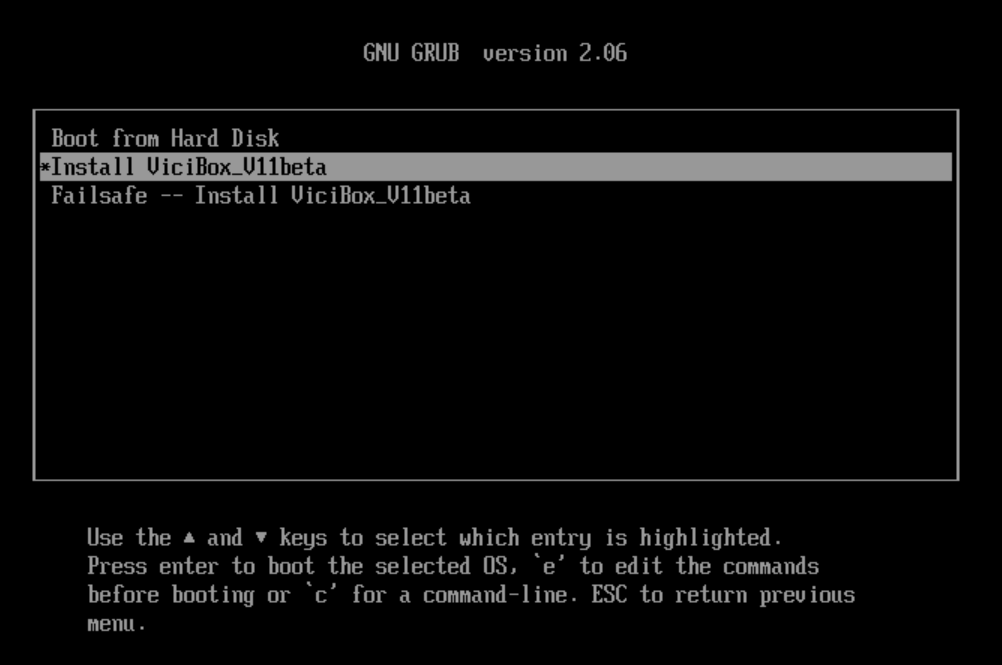
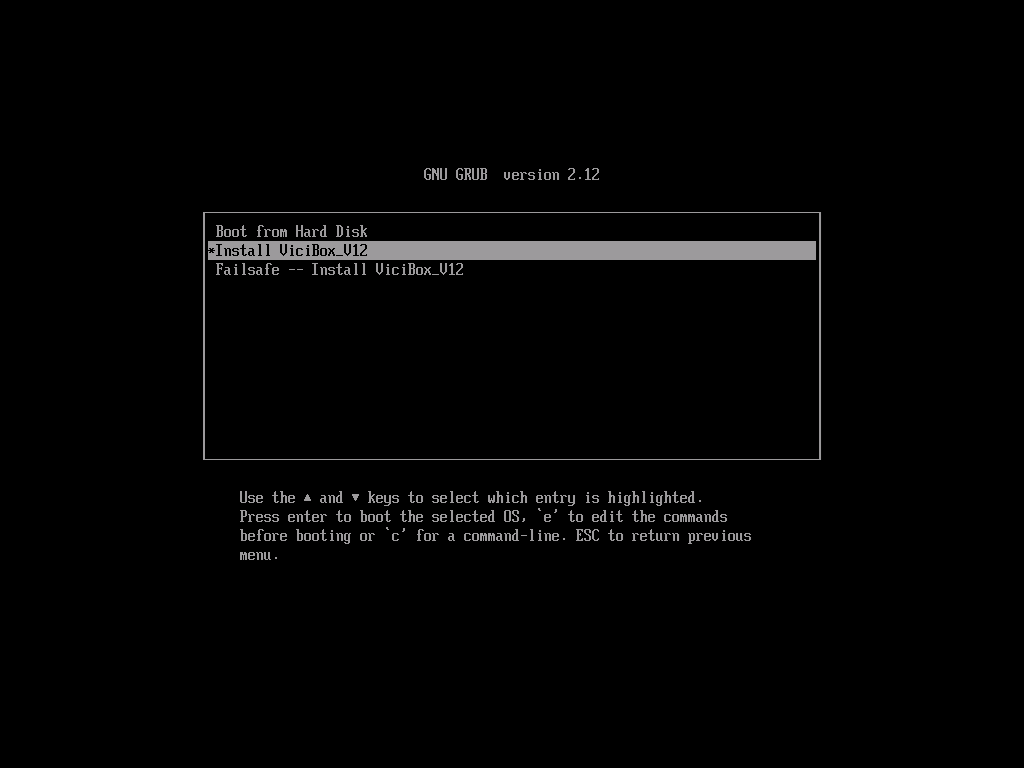
phase1 screenshorts and vicibox-mdraid1 bug

diff --git a/docs/source/installation/phase1.rst b/docs/source/installation/phase1.rst
@@ -2,7 +2,10 @@
 Phase 1
 =======
 
-   The installation of ViciBox is pretty straight forward. There have been some issues reported when installing over previous installations of Linux. The best way to insure a smooth installation is to wipe the drives before hand.
+   The following section uses the MD or MultiDevice software RAID version of ViciBox. While the installation itself is pretty straight forward the RAID setup is not always perfect. If you run into any issues with RAID setup it is recommended to wipe the drives with ``wipefs -fa /dev/sdX`` (replace sdX with device ID) and start over. The installation of the non-MD version is similar but with less steps.
+
+   .. note::
+      The installation process will destroy all data on the installation target disk. Make sure to backup any data you want to keep before proceeding.
 
 Installation Steps
 ------------------
@@ -21,9 +24,13 @@ Installation Steps
    #. Using the up and down arrow keys, select the system's local timezone and press ``ENTER``.
    #. Type in the new root password you want to use and press ``ENTER``. To keep the old root password type in ``vicidial``.
    #. Type in the new root password again from the above step to confirm it and press ``ENTER``.
-   #. At this point the system will apply the settings before finally giving a **vicibox11\:~ #** command prompt.
+   #. If internet connectivity is available, the system will ask to install updates. Press ``ENTER`` to continue and install updates.
+   #. If the MD RAID installation image was used, the system will ask to setup the RAID array if appropriate target drives are present. Selct the appropriate drive number from the shown list and press ``ENTER``.
+   #. The RAID setup tool will ask to confirm the destruction of the target drive. Press ``ENTER`` to confirm the target drive.
+   #. The RAID setup is complicated with all the various states that old drives can be in. If you run into any issues with RAID setup it is recommended to wipe the drives with ``wipefs -fa /dev/sdX`` (replace sdX with device ID) and restart the installation from step 1.
+   #. Once the **vicibox12\:~ #** command prompt is displayed with a cursor, the installation is complete. It is highly recommended to remove the installation media and reboot. To reboot, type ``reboot`` and press ``ENTER``.
    
-   Congrats, ViciBox has been installed.
+   Congrats, ViciBox has been installed. Please remember the password you used as it will be needed in the next phase.
 
 Screenshots
 -----------
@@ -52,9 +59,14 @@ Screenshots
          :alt: Login Prompt
          :width: 665
 
+   First Login
+      .. image:: ./phase1/first-login.png
+         :alt: First Login notice
+         :width: 665
+
    Select system locale
       .. image:: ./phase1/select-locale.png
-         :alt: Select systems local
+         :alt: Select systems locale
          :width: 665
 
    Select keyboard layout
@@ -87,7 +99,42 @@ Screenshots
          :alt: Confirm the new root password
          :width: 665
 
-   Command prompt, installation complete.
+   Install updates over internet
+      .. image:: ./phase1/install-updates.png
+         :alt: Install updates over the internet
+         :width: 665
+
+   Installation complete without RAID
       .. image:: ./phase1/installation-complete.png
          :alt: Installation is complete when you have a command prompt
+         :width: 665
+
+RAID Specific
+-------------
+
+   The following screenshots show installation sections related to the MD RAID image. This is only ran when multiple-drives are detected in the system and /dev/md2 is being used for root.
+   
+   Remove orphaned RAID arrays
+      .. image:: ./phase1/raid-orphans.png
+         :alt: Remove orphaned arrays
+         :width: 665
+
+   Setup RAID array (if applicable)
+      .. image:: ./phase1/select-raid-drive.png
+         :alt: Select RAID drive
+         :width: 665
+
+   RAID verify setup then reboot   
+      .. image:: ./phase1/raid-install-complete.png
+         :alt: RAID successfully setup according to /proc/mdstat
+         :width: 665
+
+   Add a new or spare drive to the array
+      .. image:: ./phase1/raid-add-drive.png
+         :alt: Add a new or spare drive to the array
+         :width: 665
+
+   Verify spare (S) drive is added to array
+      .. image:: ./phase1/raid-add-drive-complete.png
+         :alt: Verify spare drive is added to array
          :width: 665

diff --git a/docs/source/bugfix/bugfix1200-1.rst b/docs/source/bugfix/bugfix1200-1.rst
@@ -1,0 +1,40 @@
+================
+12.0.0 RAID tool
+================
+
+   If you applied updates before running the RAID setup during the first login then you likely do not have this issue.
+
+   The ViciBox MDRAID1 tool, ``vicibox-mdraid1``, had an issue where previous MD RAID arrays were causing issues with the expected partioning layout. The underlying issue is the linux kernel autoassembles any MD RAID arrays it finds from metadata left over on the drives. This results in orphaned arrays like /dev/md126, /dev/md127, etc. The fix is to temporarily stop all orphaned RAID arrays on the system during RAID setup.
+
+   A second issue relates to reinstalling the OS. In this scenario if you don't wipe the metadata from the drives you will get zombie arrays. This is where you have the previous OS' arrays mounted under the newly installed OS. For example, when you first install ViciBox12 only /dev/md2, the root array with /dev/sda4, should exist under ``/proc/mdstat``. With a zombie array, for example from a previous ViciBox 11 install, you would see /dev/md1 also listed in ``/proc/mdstat`` as read-only with /dev/sdb3 as the listed device. This has been mitigated in the above example by checking to see if /dev/sdb3, our target swap partition, already exists in /dev/md1, our swap array. If it does, the swap array is stopped and the normal execution of the script will properly create it.
+   
+Symptoms
+--------
+   With the version of vicibox-mdraid1 that was included with the ViciBox v.12.0.0 image you can potentially end up with an improperly setup swap array. If you look at the output of /proc/mdstat and see /dev/md1 listed as (auto-read-only) then that is a good indication you have this issue. You can see an example of this in the below screenshot. On this newly installed ViciBox v.12.0.0 system without updates the root array contains /dev/sda4 and the swap array contains /dev/sdb3.
+
+   Zombie RAID from previous ViciBox install
+      .. image:: ./bugfix1200-1a.png
+         :alt: RAID successfully setup according to /proc/mdstat
+         :width: 665
+
+The Fix
+-------
+
+   It is important to determine the correct partitions to be used for the swap array. In the above screenshot, /dev/sda3 and /dev/sdb3 are the swap partitions. This will depend on your install and drives used. In the above screenshot, here are the commands used to fix the swap array.
+
+
+   .. code-block:: bash
+      :caption: Create proper swap partition
+
+      swapoff -a
+      mdadm --stop /dev/md1
+      mdadm --create --force /dev/md1 --level=1 --raid-devices=2 --metadata=1.2 /dev/sda3 /dev/sdb3
+      mkswap /dev/md1
+      sudo sed -i '/swap/ s/^/#/' /etc/fstab
+      echo "UUID=$(blkid -s UUID -o value /dev/md2) swap swap defaults 0 0" >> /etc/fstab
+      swapon -a
+      cat /proc/mdstat
+
+
+
+

diff --git a/docs/source/installation/media/media-md.rst b/docs/source/installation/media/media-md.rst
@@ -3,4 +3,6 @@
 MultiDevice ISO
 ===============
 :download:`MD RAID1 Installation Image <https://download.vicidial.com/iso/vicibox/server/ViciBox_v12.x86_64-12.0.0-md.iso>`
-    The 'MD' or MultiDevice media installs in a software RAID-1. This allows two drives to be used together for failure redundancy. For best results the two drives should be a matched pair. If one drive is slightly smaller it should be installed as the first drive in the system. The smaller drive also needs to be the selected target drive during the Phase 1 installation.
+    The 'MD' or MultiDevice software RAID media installs into a software RAID-1. This allows two drives to be used together for failure redundancy. For best results the two drives should be a matched pair. If one drive is slightly smaller it should be installed as the first drive in the system. The smaller drive also needs to be the selected target drive during the Phase 1 installation.
+
+    The RAID setup tool, ``vicibox-mdraid1``, supports mixing between SATA and NVMe drives. You can add new drives to the array as well either as spares or to replace a failed drive. Unfortunately the tool does not support removing drives from the array or converting the array to any other type (RAID 0/5/6/10/50/60). Fortunately if you have a hot-swap drive chassis you can just safely yank the drive and Linux will carry on as if nothing happened.

diff --git a/docs/source/installation.rst b/docs/source/installation.rst
@@ -1,9 +1,6 @@
 =============
 Installation
 =============
-
-Overview
---------
    ViciBox is installed in two phases. The first phase installs the base ViciBox operating system onto the server. The second phase involves setting up ViciDial itself. There is an interim phase, referred to as Phase 1.5, where some ancillary processes happen.
 
 .. toctree::

diff --git a/docs/source/bugfix/vicibox12.rst b/docs/source/bugfix/vicibox12.rst
@@ -6,3 +6,4 @@ ViciBox 12.0
 .. toctree::
    :maxdepth: 2
 
+   bugfix1200-1
